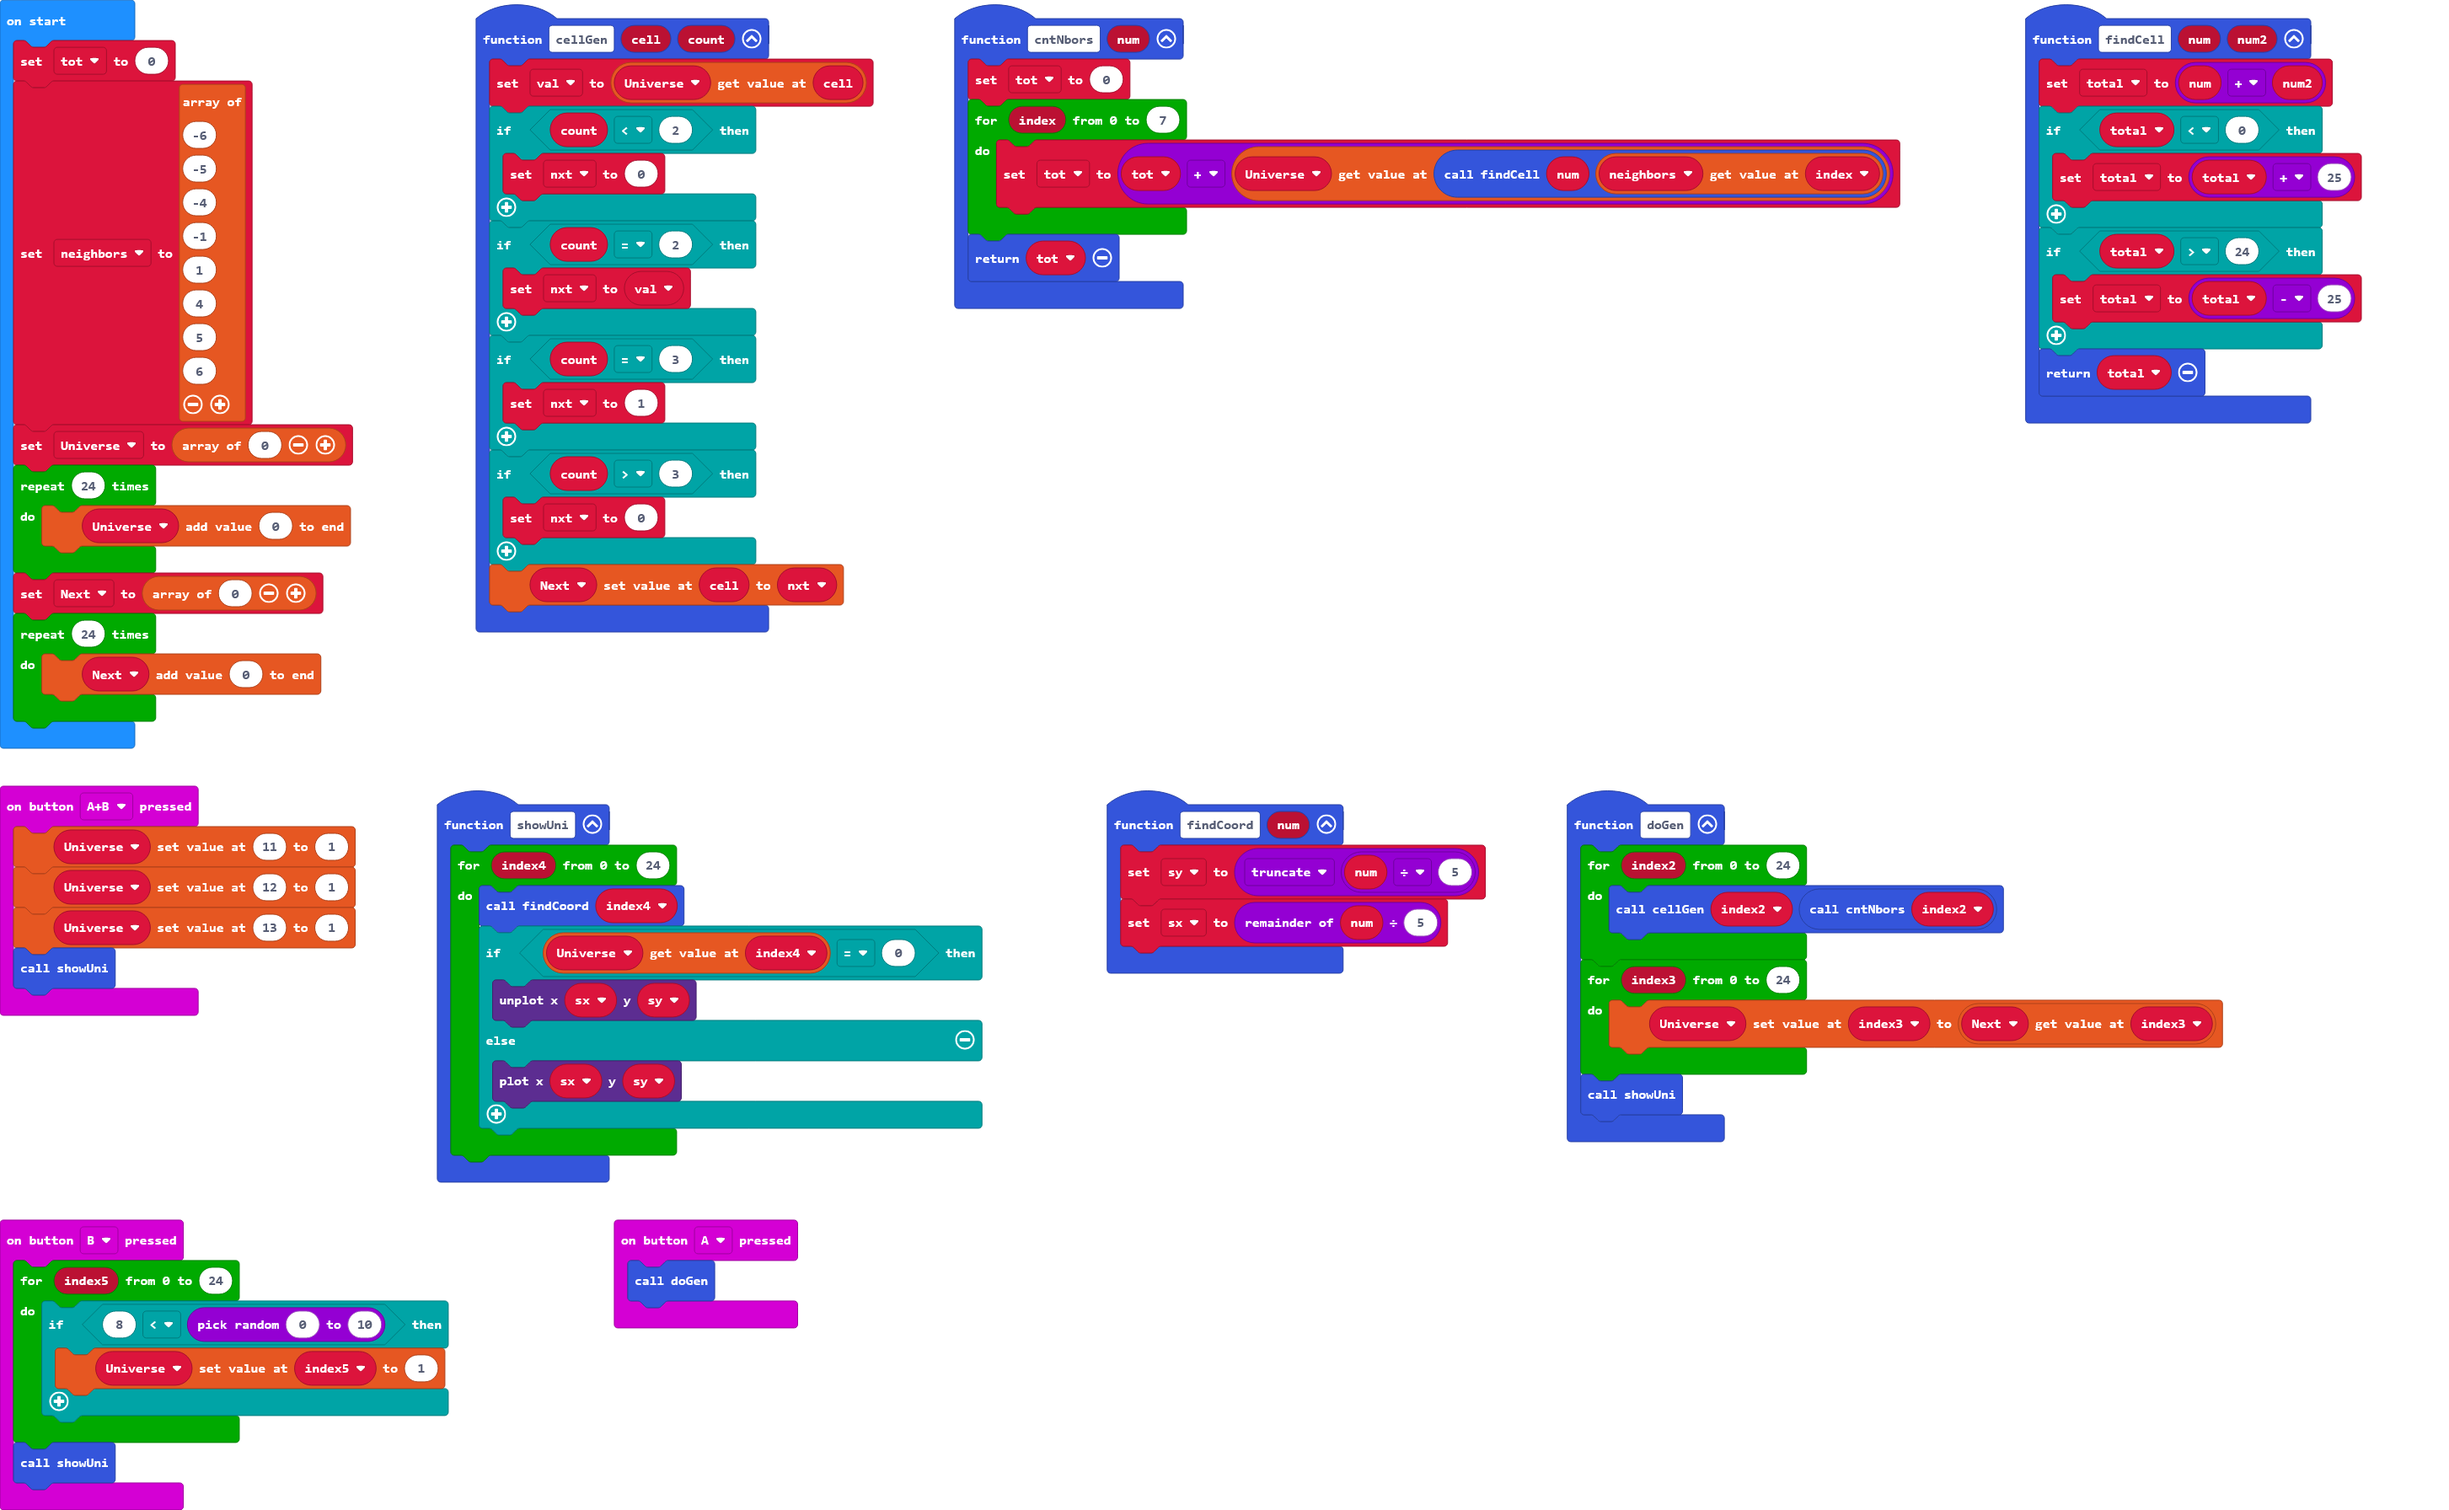
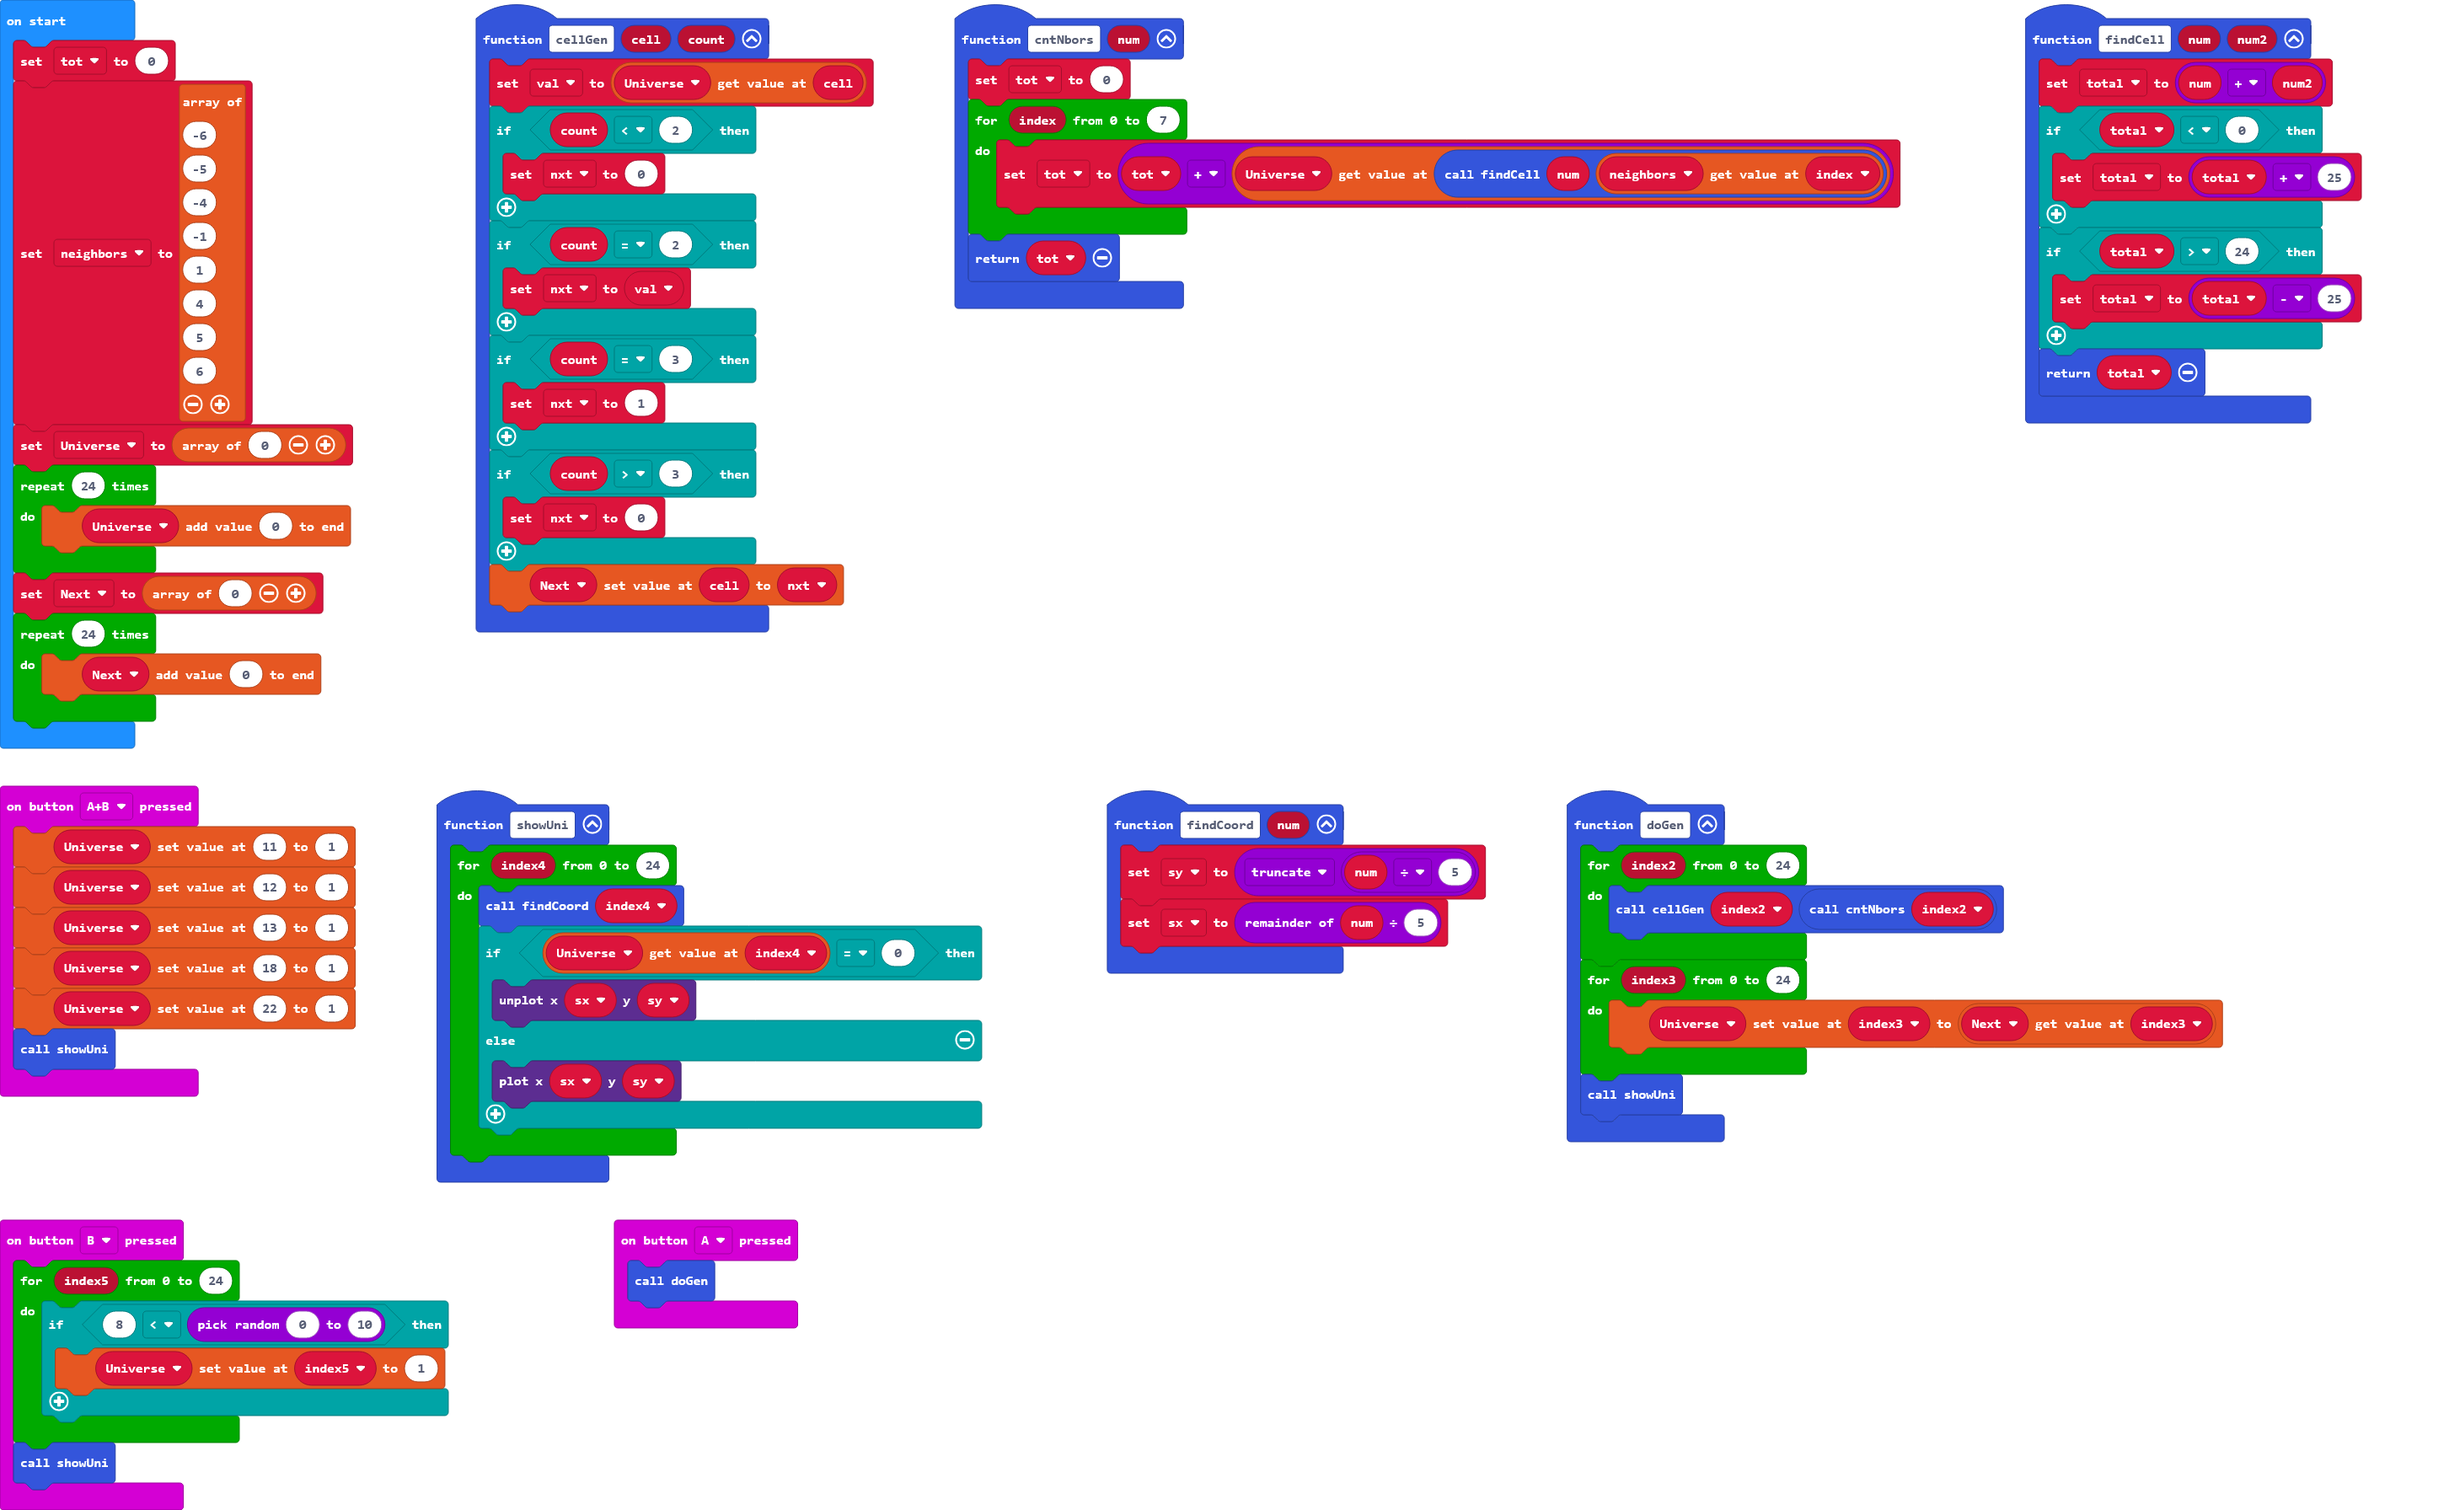
Update main.blocks, main.ts

Changed region(s): [[0.0, 0.625, 0.1549, 0.75]]

diff --git a/main.ts b/main.ts
@@ -57,6 +57,8 @@ input.onButtonPressed(Button.AB, function () {
     Universe[11] = 1
     Universe[12] = 1
     Universe[13] = 1
+    Universe[18] = 1
+    Universe[22] = 1
     showUni()
 })
 input.onButtonPressed(Button.B, function () {
